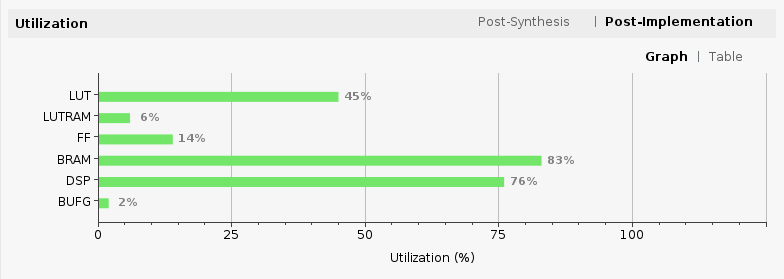
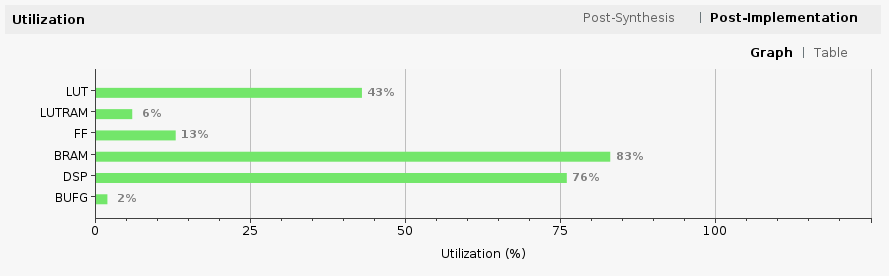
Update Ultra96v2 tutorial

diff --git a/content/en/docs/Tutorials/resnet20-ultra96v2.md b/content/en/docs/Tutorials/resnet20-ultra96v2.md
@@ -83,7 +83,7 @@ To generate a design using our chosen architecture, run the following command in
 tensil rtl -a /demo/arch/ultra96v2.tarch -s true -d 128
 ```
 
-Note the `-d 128` parameter, which specifies that the generated RTL will be compatible with 128-bit AXI interfaces supported by the ZU3EG part. This command will produce several Verilog files listed in the `ARTIFACTS` table printed out at the end. It also prints the `RTL SUMMARY` table with some of the essential parameters of the resulting RTL. We'll need to use the instruction size in bytes in the next step when designing in Vivado.
+Note the `-d 128` parameter, which specifies that the generated RTL will be compatible with 128-bit AXI interfaces supported by the ZU3EG part. This command will produce several Verilog files listed in the `ARTIFACTS` table printed out at the end. It also prints the `RTL SUMMARY` table with some of the essential parameters of the resulting RTL.
 
 ```
 -----------------------------------------------------------------------
@@ -146,13 +146,7 @@ Double-click it. Disable "Scatter Gather Engine" and "Write Channel". Change "Wi
 
 ![dma](/images/tutorials/resnet20-ultra96v2/dma.png)
 
-Again, click the plus `+` button in the Block Diagram toolbar and select "AXI4-Stream Data Width Converter". A width converter is necessary because the Tensil architecture variants may have different instruction widths depending on memory sizes and strides.
-
-Double-click the width converter block and change "Master Interface TDATA Width" to 9 bytes as printed in the `RTL SUMMARY` we saw when running the Tensil RTL tool.
-
-![width_converter](/images/tutorials/resnet20-ultra96v2/width_converter.png)
-
-Connect the `instruction` port on the Tensil `top` block to the `M_AXIS` port on the AXI4-Stream Data Width Converter. Then, connect `S_AXIS` on the AXI4-Stream Data Width Converter block to `M_AXIS_MM2S` on the AXI DMA block. Finally, connect `M_AXI_MM2S` on the AXI DMA block to `S_AXI_HP1_FPD` on Zynq.
+Connect the `instruction` port on the Tensil `top` block to `M_AXIS_MM2S` on the AXI DMA block. Then, connect `M_AXI_MM2S` on the AXI DMA block to `S_AXI_HP1_FPD` on Zynq.
 
 Once again, click the plus `+` button in the Block Diagram toolbar and select "AXI SmartConnect. The SmartConnect is necessary to expose DMA control registers to the Zynq CPU, which will enable software to control the DMA transactions. Double-click it and set "Number of Slave and Master Interfaces" to 1. 
 
